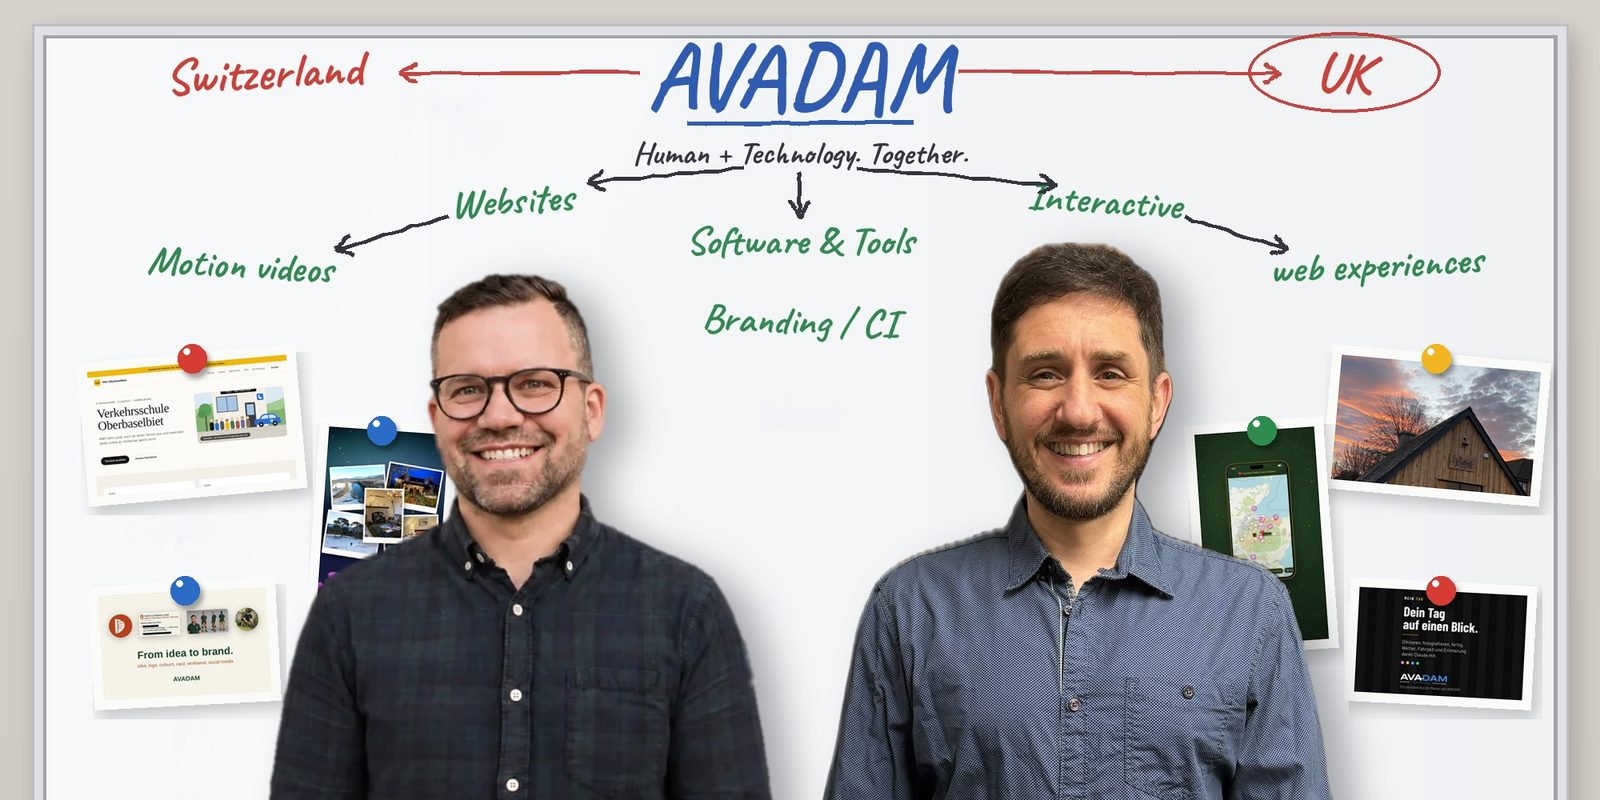
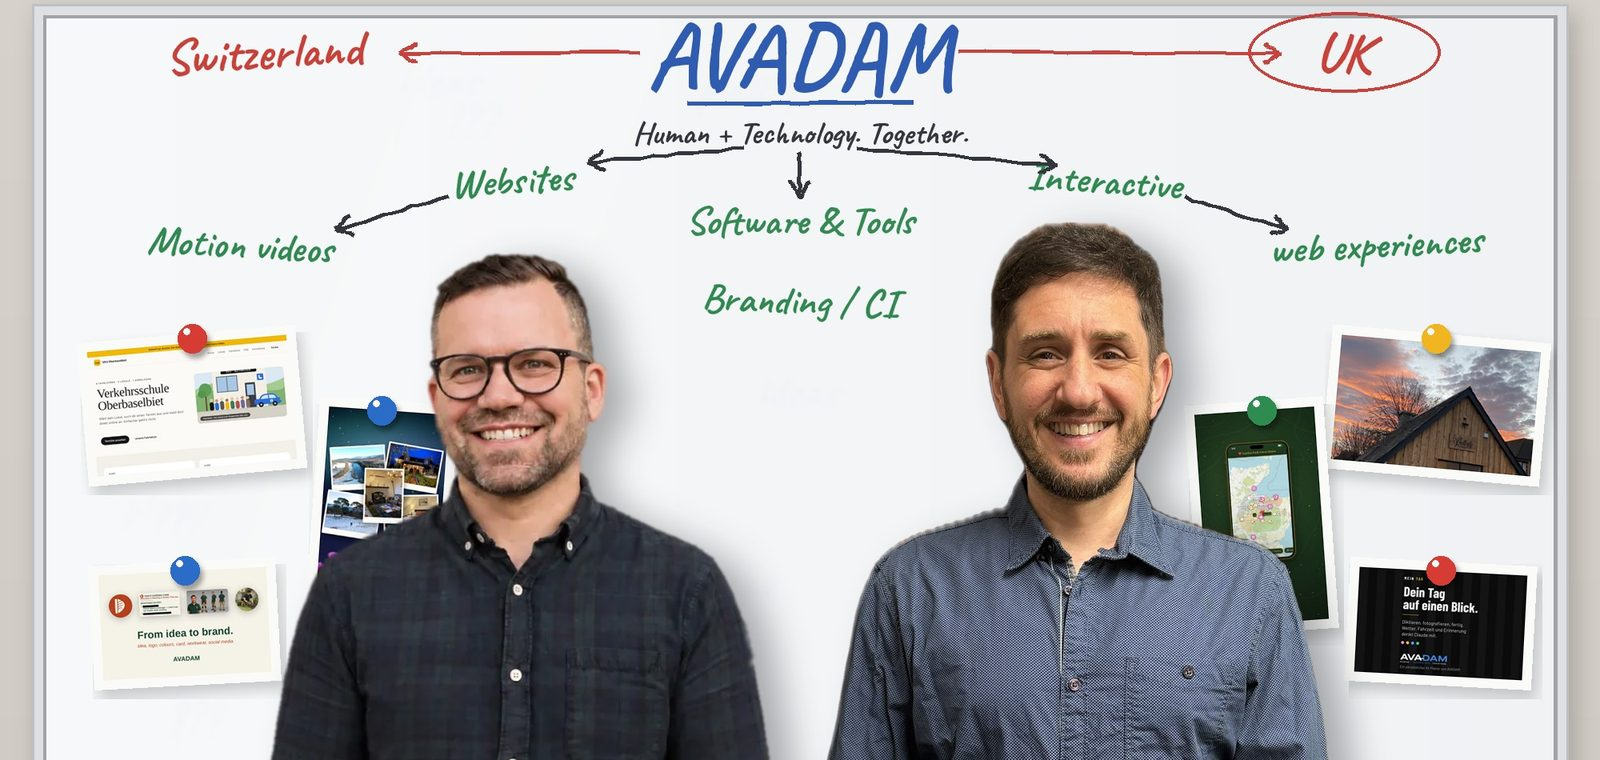
Whiteboard-Bild bündig und 5 % niedriger, Stylesheet mit Versionsnummer
Claude-Session: https://claude.ai/code/session_0113hQA4vXWdTsayzUgoxeNU

diff --git a/fr/index.html b/fr/index.html
@@ -34,7 +34,7 @@
 <link rel="icon" href="../assets/favicon.svg" type="image/svg+xml">
 <link rel="apple-touch-icon" href="../assets/apple-touch-icon.png">
 <link rel="preload" href="../assets/fonts/montserrat-latin-800-normal.woff2" as="font" type="font/woff2" crossorigin>
-<link rel="stylesheet" href="../assets/style.css">
+<link rel="stylesheet" href="../assets/style.css?v=a1259b9a">
 <link rel="alternate" type="text/plain" href="https://avadam26.github.io/avadam/llms.txt" title="LLM summary">
 <script type="application/ld+json">
 {
@@ -428,7 +428,7 @@
 <div class="places"><div class="card place"><span class="country">Suisse</span><h3 style="margin-top:12px">Succursale suisse</h3><address>4632 Trimbach<br>Suisse</address><a class="more" href="https://www.formateins.ch/" target="_blank" rel="noopener">formateins.ch ↗</a></div><div class="card place"><span class="country">Royaume-Uni</span><h3 style="margin-top:12px">Succursale au Royaume-Uni</h3><address>Grantown-on-Spey PH26 3JN<br>Royaume-Uni</address></div></div>
 <figure class="team-photo"><picture>
 <source type="image/webp" srcset="../media/team-whiteboard-800.webp 800w, ../media/team-whiteboard-1600.webp 1600w" sizes="(max-width:1200px) 100vw, 1120px">
-<img src="../media/team-whiteboard-1600.jpg" srcset="../media/team-whiteboard-800.jpg 800w, ../media/team-whiteboard-1600.jpg 1600w" sizes="(max-width:1200px) 100vw, 1120px" alt="Adrian von Arb et Daniel Muccio devant un tableau blanc avec AVADAM, nos succursales en Suisse et au Royaume-Uni, nos domaines et des photos de nos projets" width="1600" height="800" loading="lazy" decoding="async">
+<img src="../media/team-whiteboard-1600.jpg" srcset="../media/team-whiteboard-800.jpg 800w, ../media/team-whiteboard-1600.jpg 1600w" sizes="(max-width:1200px) 100vw, 1120px" alt="Adrian von Arb et Daniel Muccio devant un tableau blanc avec AVADAM, nos succursales en Suisse et au Royaume-Uni, nos domaines et des photos de nos projets" width="1600" height="760" loading="lazy" decoding="async">
 </picture></figure>
 </div>
 </section>

diff --git a/it/index.html b/it/index.html
@@ -34,7 +34,7 @@
 <link rel="icon" href="../assets/favicon.svg" type="image/svg+xml">
 <link rel="apple-touch-icon" href="../assets/apple-touch-icon.png">
 <link rel="preload" href="../assets/fonts/montserrat-latin-800-normal.woff2" as="font" type="font/woff2" crossorigin>
-<link rel="stylesheet" href="../assets/style.css">
+<link rel="stylesheet" href="../assets/style.css?v=a1259b9a">
 <link rel="alternate" type="text/plain" href="https://avadam26.github.io/avadam/llms.txt" title="LLM summary">
 <script type="application/ld+json">
 {
@@ -428,7 +428,7 @@
 <div class="places"><div class="card place"><span class="country">Svizzera</span><h3 style="margin-top:12px">Sede in Svizzera</h3><address>4632 Trimbach<br>Svizzera</address><a class="more" href="https://www.formateins.ch/" target="_blank" rel="noopener">formateins.ch ↗</a></div><div class="card place"><span class="country">Regno Unito</span><h3 style="margin-top:12px">Sede nel Regno Unito</h3><address>Grantown-on-Spey PH26 3JN<br>Regno Unito</address></div></div>
 <figure class="team-photo"><picture>
 <source type="image/webp" srcset="../media/team-whiteboard-800.webp 800w, ../media/team-whiteboard-1600.webp 1600w" sizes="(max-width:1200px) 100vw, 1120px">
-<img src="../media/team-whiteboard-1600.jpg" srcset="../media/team-whiteboard-800.jpg 800w, ../media/team-whiteboard-1600.jpg 1600w" sizes="(max-width:1200px) 100vw, 1120px" alt="Adrian von Arb e Daniel Muccio davanti a una lavagna con AVADAM, le sedi in Svizzera e nel Regno Unito, i nostri ambiti e le foto dei nostri progetti" width="1600" height="800" loading="lazy" decoding="async">
+<img src="../media/team-whiteboard-1600.jpg" srcset="../media/team-whiteboard-800.jpg 800w, ../media/team-whiteboard-1600.jpg 1600w" sizes="(max-width:1200px) 100vw, 1120px" alt="Adrian von Arb e Daniel Muccio davanti a una lavagna con AVADAM, le sedi in Svizzera e nel Regno Unito, i nostri ambiti e le foto dei nostri progetti" width="1600" height="760" loading="lazy" decoding="async">
 </picture></figure>
 </div>
 </section>

diff --git a/en/index.html b/en/index.html
@@ -34,7 +34,7 @@
 <link rel="icon" href="../assets/favicon.svg" type="image/svg+xml">
 <link rel="apple-touch-icon" href="../assets/apple-touch-icon.png">
 <link rel="preload" href="../assets/fonts/montserrat-latin-800-normal.woff2" as="font" type="font/woff2" crossorigin>
-<link rel="stylesheet" href="../assets/style.css">
+<link rel="stylesheet" href="../assets/style.css?v=a1259b9a">
 <link rel="alternate" type="text/plain" href="https://avadam26.github.io/avadam/llms.txt" title="LLM summary">
 <script type="application/ld+json">
 {
@@ -428,7 +428,7 @@
 <div class="places"><div class="card place"><span class="country">Switzerland</span><h3 style="margin-top:12px">Swiss office</h3><address>4632 Trimbach<br>Switzerland</address><a class="more" href="https://www.formateins.ch/" target="_blank" rel="noopener">formateins.ch ↗</a></div><div class="card place"><span class="country">United Kingdom</span><h3 style="margin-top:12px">UK office</h3><address>Grantown-on-Spey PH26 3JN<br>United Kingdom</address></div></div>
 <figure class="team-photo"><picture>
 <source type="image/webp" srcset="../media/team-whiteboard-800.webp 800w, ../media/team-whiteboard-1600.webp 1600w" sizes="(max-width:1200px) 100vw, 1120px">
-<img src="../media/team-whiteboard-1600.jpg" srcset="../media/team-whiteboard-800.jpg 800w, ../media/team-whiteboard-1600.jpg 1600w" sizes="(max-width:1200px) 100vw, 1120px" alt="Adrian von Arb and Daniel Muccio in front of a whiteboard showing AVADAM, our Swiss and UK offices, what we do and photos of our projects" width="1600" height="800" loading="lazy" decoding="async">
+<img src="../media/team-whiteboard-1600.jpg" srcset="../media/team-whiteboard-800.jpg 800w, ../media/team-whiteboard-1600.jpg 1600w" sizes="(max-width:1200px) 100vw, 1120px" alt="Adrian von Arb and Daniel Muccio in front of a whiteboard showing AVADAM, our Swiss and UK offices, what we do and photos of our projects" width="1600" height="760" loading="lazy" decoding="async">
 </picture></figure>
 </div>
 </section>

diff --git a/index.html b/index.html
@@ -34,7 +34,7 @@
 <link rel="icon" href="assets/favicon.svg" type="image/svg+xml">
 <link rel="apple-touch-icon" href="assets/apple-touch-icon.png">
 <link rel="preload" href="assets/fonts/montserrat-latin-800-normal.woff2" as="font" type="font/woff2" crossorigin>
-<link rel="stylesheet" href="assets/style.css">
+<link rel="stylesheet" href="assets/style.css?v=a1259b9a">
 <link rel="alternate" type="text/plain" href="https://avadam26.github.io/avadam/llms.txt" title="LLM summary">
 <script type="application/ld+json">
 {
@@ -428,7 +428,7 @@
 <div class="places"><div class="card place"><span class="country">Schweiz</span><h3 style="margin-top:12px">Schweizer Niederlassung</h3><address>4632 Trimbach<br>Schweiz</address><a class="more" href="https://www.formateins.ch/" target="_blank" rel="noopener">formateins.ch ↗</a></div><div class="card place"><span class="country">Grossbritannien</span><h3 style="margin-top:12px">UK Niederlassung</h3><address>Grantown-on-Spey PH26 3JN<br>Grossbritannien</address></div></div>
 <figure class="team-photo"><picture>
 <source type="image/webp" srcset="media/team-whiteboard-800.webp 800w, media/team-whiteboard-1600.webp 1600w" sizes="(max-width:1200px) 100vw, 1120px">
-<img src="media/team-whiteboard-1600.jpg" srcset="media/team-whiteboard-800.jpg 800w, media/team-whiteboard-1600.jpg 1600w" sizes="(max-width:1200px) 100vw, 1120px" alt="Adrian von Arb und Daniel Muccio vor einem Whiteboard mit AVADAM, den Standorten Schweiz und UK, unseren Bereichen und Fotos unserer Projekte" width="1600" height="800" loading="lazy" decoding="async">
+<img src="media/team-whiteboard-1600.jpg" srcset="media/team-whiteboard-800.jpg 800w, media/team-whiteboard-1600.jpg 1600w" sizes="(max-width:1200px) 100vw, 1120px" alt="Adrian von Arb und Daniel Muccio vor einem Whiteboard mit AVADAM, den Standorten Schweiz und UK, unseren Bereichen und Fotos unserer Projekte" width="1600" height="760" loading="lazy" decoding="async">
 </picture></figure>
 </div>
 </section>

diff --git a/assets/style.css b/assets/style.css
@@ -30,7 +30,7 @@
 html{scroll-behavior:smooth;-webkit-text-size-adjust:100%}
 @media (prefers-reduced-motion:reduce){html{scroll-behavior:auto}}
 body{margin:0;background:var(--bg);color:var(--text);font-family:"Montserrat",system-ui,-apple-system,"Segoe UI",sans-serif;font-size:17px;line-height:1.65}
-img,video{max-width:100%;display:block}
+img,video{max-width:100%;height:auto;display:block}
 a{color:var(--blue-ink)}
 a:hover{color:var(--ink)}
 :focus-visible{outline:3px solid var(--blue);outline-offset:3px;border-radius:6px}

diff --git a/_build/build.py b/_build/build.py
@@ -11,6 +11,10 @@ TODAY = "2026-10-21"
 HERE = os.path.dirname(os.path.abspath(__file__))
 OUT = os.path.dirname(HERE)
 
+import hashlib as _hl
+# Version im Link, damit Browser nach jeder Änderung das neue Stylesheet laden
+CSS_V = _hl.md5(open(os.path.join(os.path.dirname(os.path.abspath(__file__)), "..", "assets", "style.css"), "rb").read()).hexdigest()[:8]
+
 def path_of(lang):            # relativer Pfad der Sprachseite
     return "" if lang == "de" else f"{lang}/"
 
@@ -211,7 +215,7 @@ def page(lang):
 <link rel="icon" href="{A}favicon.svg" type="image/svg+xml">
 <link rel="apple-touch-icon" href="{A}apple-touch-icon.png">
 <link rel="preload" href="{A}fonts/montserrat-latin-800-normal.woff2" as="font" type="font/woff2" crossorigin>
-<link rel="stylesheet" href="{A}style.css">
+<link rel="stylesheet" href="{A}style.css?v={CSS_V}">
 <link rel="alternate" type="text/plain" href="{BASE}llms.txt" title="LLM summary">
 <script type="application/ld+json">
 {jsonld(lang, t, r)}
@@ -284,7 +288,7 @@ def page(lang):
 <div class="places">{places}</div>
 <figure class="team-photo"><picture>
 <source type="image/webp" srcset="{M}team-whiteboard-800.webp 800w, {M}team-whiteboard-1600.webp 1600w" sizes="(max-width:1200px) 100vw, 1120px">
-<img src="{M}team-whiteboard-1600.jpg" srcset="{M}team-whiteboard-800.jpg 800w, {M}team-whiteboard-1600.jpg 1600w" sizes="(max-width:1200px) 100vw, 1120px" alt="{e(t["team_photo_alt"])}" width="1600" height="800" loading="lazy" decoding="async">
+<img src="{M}team-whiteboard-1600.jpg" srcset="{M}team-whiteboard-800.jpg 800w, {M}team-whiteboard-1600.jpg 1600w" sizes="(max-width:1200px) 100vw, 1120px" alt="{e(t["team_photo_alt"])}" width="1600" height="760" loading="lazy" decoding="async">
 </picture></figure>
 </div>
 </section>

diff --git a/LOGBUCH.md b/LOGBUCH.md
@@ -12,6 +12,9 @@ So führen wir es:
 
 ## 9. November 2026
 
+**Whiteboard-Bild bündig und 5 % niedriger, Stylesheet immer frisch** · Claude für Dani
+Das Bild war bei Dani nicht bündig mit den Kärtchen und wirkte in die Höhe gezogen. Grund: Sein Browser hatte noch das alte Stylesheet im Speicher. Ab jetzt hängt an `style.css` eine Versionsnummer, die sich bei jeder Änderung von selbst ändert (`CSS_V` in `_build/build.py`), damit Browser immer das neue Stylesheet laden. Zusätzlich behalten Bilder jetzt überall ihr Seitenverhältnis (`height:auto`). Das Bild selbst ist oben und unten um 5 % beschnitten (1600 × 760 statt 1600 × 800). Gemessen auf 320, 390, 768 und 1280 Pixel: links und rechts genau bündig mit den Kärtchen, nicht verzerrt, ohne Fehler in der Konsole.
+
 **Whiteboard-Bild von Adi und Dani unter den Niederlassungen** · Claude für Dani · `9fed247`
 Unter den Kärtchen Schweiz und UK, direkt vor den Fragen, steht jetzt ein breites Bild von Adi und Dani vor einem Whiteboard. Auf der Tafel stehen AVADAM mit Switzerland und UK, der Slogan, unsere fünf Bereiche und sechs Referenzfotos mit Magneten. Das Bild ist eine Montage: beide Porträts freigestellt (Adis Porträt und Danis neues Foto vom 9. November) und vor eine gezeichnete Tafel gesetzt. Bauskript und Einzelteile liegen bei Dani auf E:\Claude\Projekte\AVADAM\Whiteboard-Foto. Auf der Seite in zwei Grössen (800 und 1600 Pixel) als WebP mit JPG als Rückfall, damit es auf dem Handy schnell lädt. Alt-Text in allen vier Sprachen in `_build/content.py` (`team_photo_alt`), Einbau in `_build/build.py`, Stil in `assets/style.css`. Geprüft in allen vier Sprachen, hell und dunkel, auf 320, 390, 768 und 1280 Pixel, ohne Fehler in der Konsole.
 
